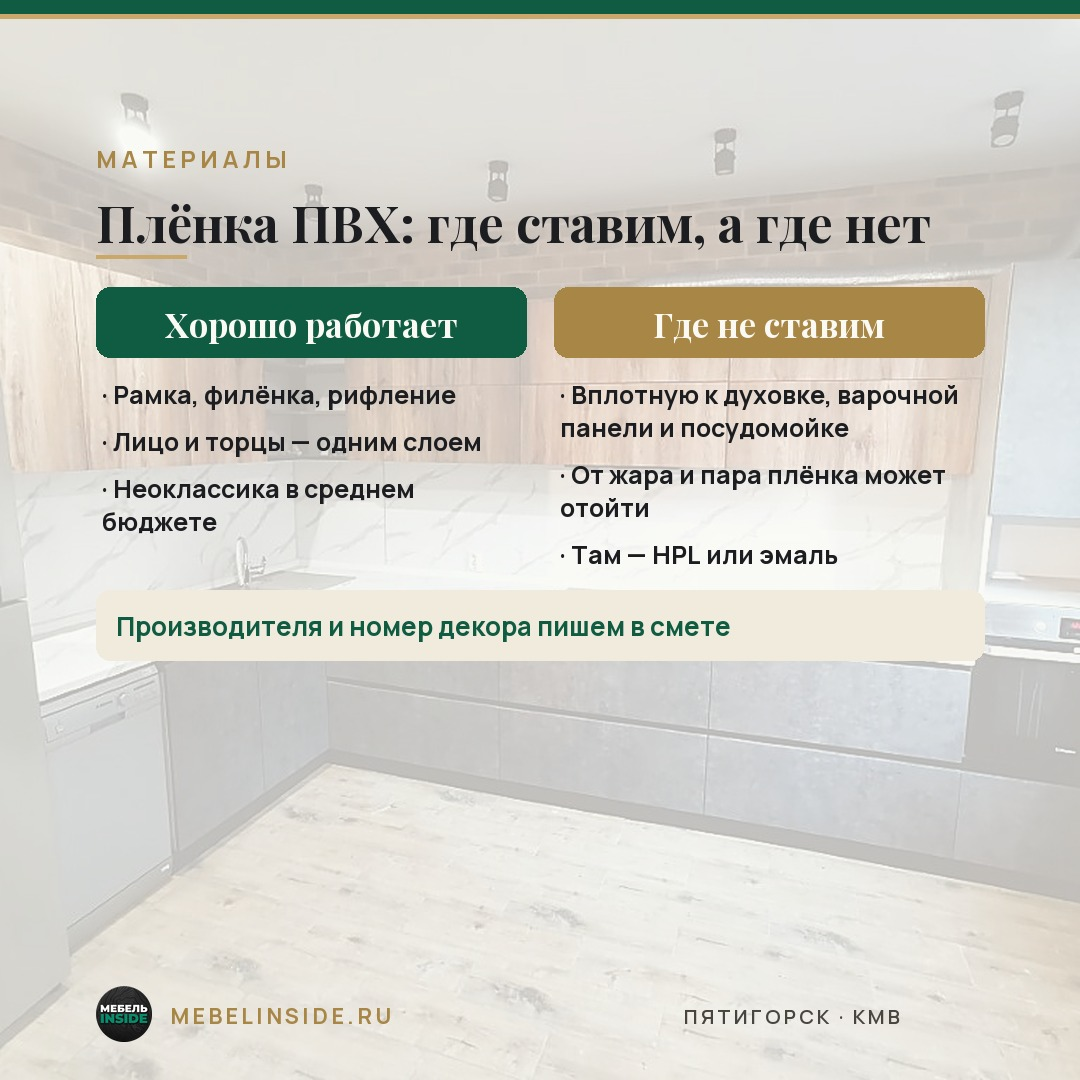
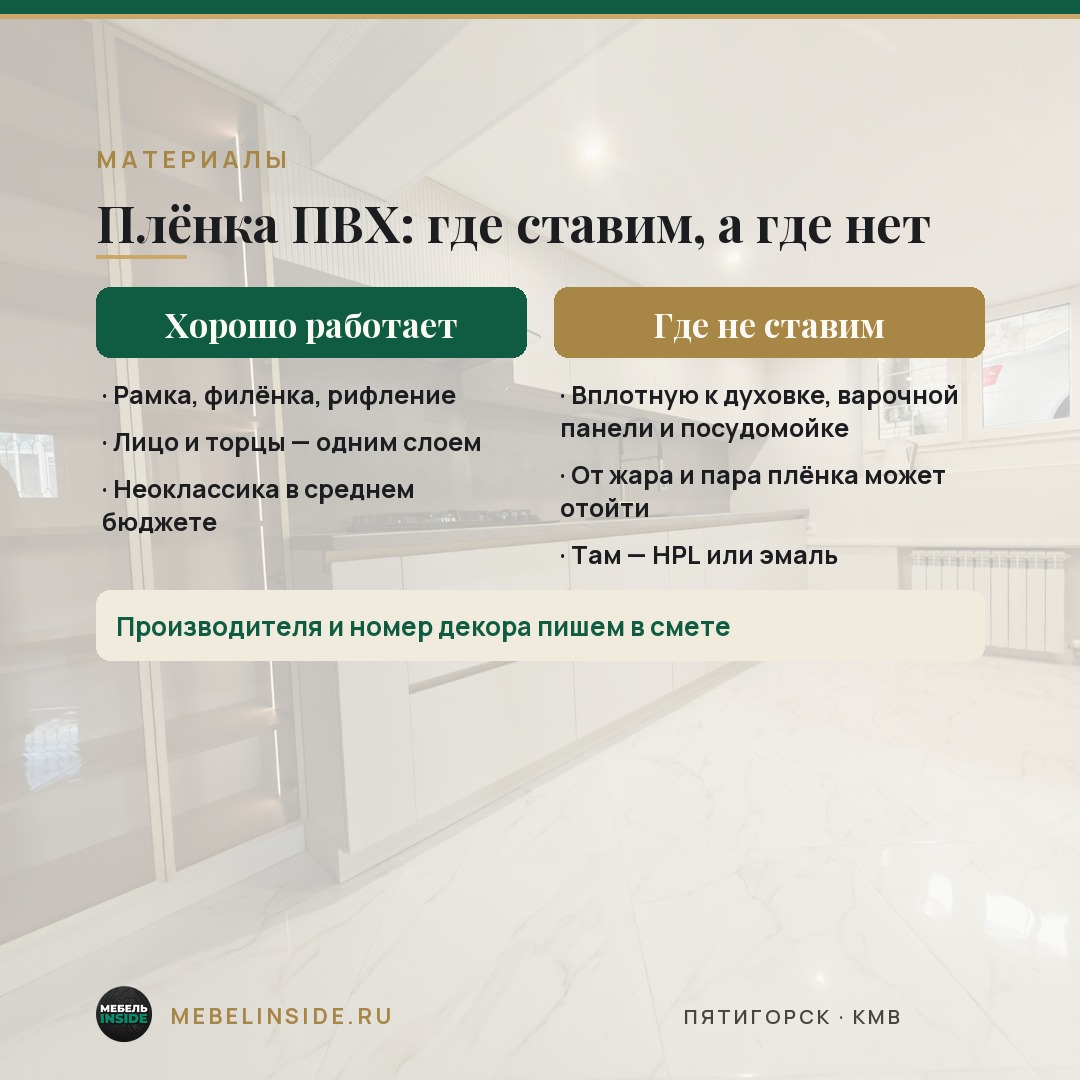
Карточка 03.11: фон — кухня ПВХ 07.2026 (выбор Михаила)

diff --git a/media/cards/SOGLASOVANIE.md b/media/cards/SOGLASOVANIE.md
@@ -15,7 +15,7 @@
 | 8 | 30.10 | Кухня из массива за 45 дней? | НОВЫЙ ФОН: без фото — прежний фон не был массивом [?] | на согласовании |
 | 9 | 31.10 | Ручки, профиль или push-to-open | интерьер с тёмной дверью, кухни в кадре почти нет [?] предлагаем заменить | на согласовании |
 | 10 | 02.11 | Проверьте 3D-проект до запуска в цех | НОВЫЙ ФОН: белая классическая кухня с варочной панелью (Диск: Кухни/Неоклассика) | на согласовании |
-| 11 | 03.11 | Плёнка ПВХ: где ставим, а где нет | кухня с серыми фасадами и деревом (без изменений) | на согласовании |
+| 11 | 03.11 | Плёнка ПВХ: где ставим, а где нет | НОВЫЙ ФОН (выбор Михаила, вариант A): бежевая кухня, папка «ПВХ Фрез Волна», 07.2026 (Диск: Кухни/Современные/Виталий Горячеводский…) | на согласовании |
 | 12 | 08.11 | Cleaf: фактура, которую чувствует рука | кухня с деревянными фасадами (без изменений) | на согласовании |
 | 13 | 09.11 | Что будет со сколом через три года | светлая кухня с мраморным фартуком и люстрой (без изменений) | на согласовании |
 | 14 | 11.11 | Кухня к Новому году: считаем честно | серо-белая кухня с духовкой (без изменений) | на согласовании |
